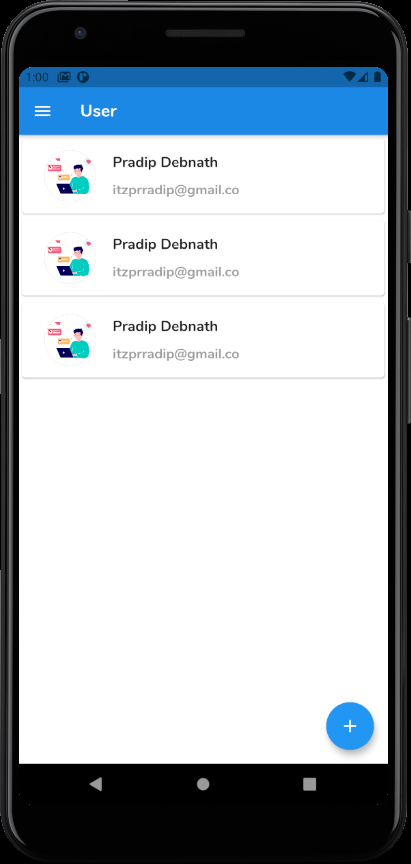
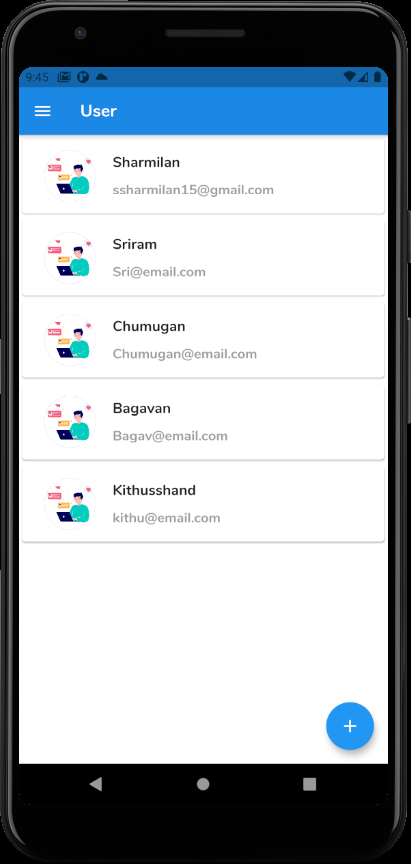
list view use from array

diff --git a/singup_page/lib/profile.dart b/singup_page/lib/profile.dart
@@ -1,11 +1,44 @@
 import 'package:flutter/material.dart';
 
+final List<Map> details = [
+
+   {
+    "name": "Sharmilan",
+    "email": "ssharmilan15@gmail.com",
+    "image": "assets/images/bg.png",
+
+  },  {
+    "name": "Sriram",
+    "email": "Sri@email.com",
+    "image": "assets/images/bg.png",
+
+  },  {
+    "name": "Chumugan",
+    "email": "Chumugan@email.com",
+    "image": "assets/images/bg.png",
+
+  },  {
+    "name": "Bagavan",
+    "email": "Bagav@email.com",
+    "image": "assets/images/bg.png",
+
+  },  {
+    "name": "Kithusshand",
+    "email": "kithu@email.com",
+    "image": "assets/images/bg.png",
+
+  },
+];
+
 class profile extends StatelessWidget {
 
   @override
   Widget build(BuildContext context) {
-   return ListView.builder(
-      itemCount: 3,
+   return SingleChildScrollView(
+     child:  Expanded(
+       child:ListView.builder(
+         shrinkWrap: true,
+      itemCount: details.length,
       itemBuilder: (context,index){
    
     return  Card(
@@ -23,7 +56,7 @@ class profile extends StatelessWidget {
                   borderRadius: BorderRadius.circular(60/2),
                   image: DecorationImage(
                     fit: BoxFit.cover,
-                    image: ExactAssetImage("assets/images/bg.png"),
+                    image: ExactAssetImage(details[index]['image']),
                   )
                 ),
               ),
@@ -33,9 +66,9 @@ class profile extends StatelessWidget {
                 children: <Widget>[
                   SizedBox(
                     width: MediaQuery.of(context).size.width-140,
-                    child: Text("Pradip Debnath",style: TextStyle(fontSize: 17),)),
+                    child: Text(details[index]['name'],style: TextStyle(fontSize: 17),)),
                   SizedBox(height: 10,),
-                  Text("itzprradip@gmail.co",style: TextStyle(color: Colors.grey),)
+                  Text(details[index]['email'],style: TextStyle(color: Colors.grey),)
                 ],
               )
             ],
@@ -45,7 +78,7 @@ class profile extends StatelessWidget {
     
     );
       }
-   );
+   )));
      
 }
 
